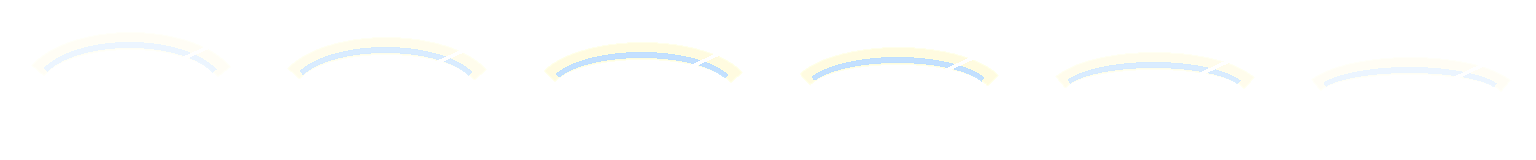
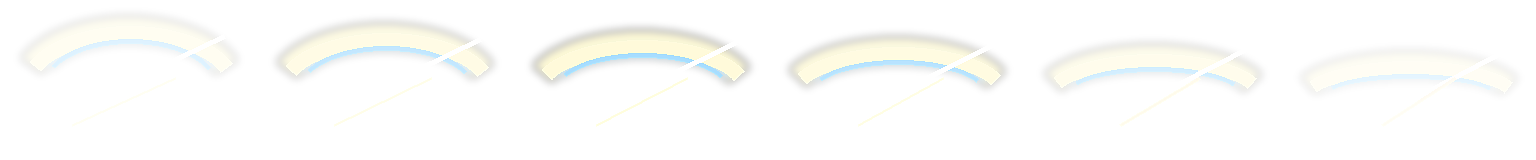
Enhance battle hit effects

diff --git a/reboot/tools/generate_actor_animation_sheets.py b/reboot/tools/generate_actor_animation_sheets.py
@@ -3,7 +3,7 @@ from __future__ import annotations
 import math
 from pathlib import Path
 
-from PIL import Image, ImageDraw, ImageEnhance
+from PIL import Image, ImageDraw, ImageEnhance, ImageFilter
 
 
 ROOT = Path(__file__).resolve().parents[1]
@@ -11,6 +11,7 @@ ART_ROOT = ROOT / "assets" / "generated" / "mvp_art"
 OUT_DIR = ART_ROOT / "actor_anim"
 FRAME_SIZE = (256, 256)
 SLASH_FRAME_SIZE = (256, 160)
+HIT_BURST_FRAME_SIZE = (192, 192)
 
 
 def trim_alpha(image: Image.Image) -> Image.Image:
@@ -126,14 +127,74 @@ def make_slash_sheet() -> Image.Image:
     for index in range(6):
         frame = Image.new("RGBA", SLASH_FRAME_SIZE, (0, 0, 0, 0))
         draw = ImageDraw.Draw(frame)
-        alpha = int(235 * (1.0 - abs(index - 2.5) / 3.2))
-        alpha = max(60, alpha)
-        spread = 14 + index * 5
-        draw.arc((22, 18 + spread, 238, 150 - spread // 2), 204, 338, fill=(255, 250, 216, alpha), width=18)
-        draw.arc((34, 28 + spread, 224, 140 - spread // 2), 206, 336, fill=(114, 184, 255, int(alpha * 0.55)), width=6)
-        draw.line((60 + index * 8, 112, 218, 42 + index * 3), fill=(255, 255, 255, int(alpha * 0.62)), width=4)
-        frame = ImageEnhance.Sharpness(frame).enhance(1.3)
+        alpha = int(255 * (1.0 - abs(index - 2.2) / 3.4))
+        alpha = max(70, alpha)
+        spread = 8 + index * 7
+        glow = Image.new("RGBA", SLASH_FRAME_SIZE, (0, 0, 0, 0))
+        glow_draw = ImageDraw.Draw(glow)
+        glow_draw.arc((12, 8 + spread, 244, 154 - spread // 2), 202, 340, fill=(255, 246, 181, int(alpha * 0.58)), width=28)
+        glow_draw.arc((34, 24 + spread, 226, 142 - spread // 2), 206, 336, fill=(126, 207, 255, int(alpha * 0.40)), width=12)
+        glow = glow.filter(ImageFilter.GaussianBlur(4.2))
+        frame.alpha_composite(glow)
+        draw.arc((20, 18 + spread, 240, 150 - spread // 2), 204, 338, fill=(255, 250, 216, alpha), width=16)
+        draw.arc((42, 31 + spread, 218, 138 - spread // 2), 207, 336, fill=(126, 205, 255, int(alpha * 0.72)), width=5)
+        draw.line((52 + index * 9, 118, 224, 36 + index * 3), fill=(255, 255, 255, int(alpha * 0.92)), width=5)
+        draw.line((72 + index * 6, 125, 175, 78), fill=(255, 232, 166, int(alpha * 0.48)), width=3)
+        frame = ImageEnhance.Sharpness(frame).enhance(1.55)
         sheet.alpha_composite(frame, (index * SLASH_FRAME_SIZE[0], 0))
+    return sheet
+
+
+def make_hit_burst_sheet() -> Image.Image:
+    frame_count = 8
+    width = HIT_BURST_FRAME_SIZE[0] * frame_count
+    sheet = Image.new("RGBA", (width, HIT_BURST_FRAME_SIZE[1]), (0, 0, 0, 0))
+    for index in range(frame_count):
+        frame = Image.new("RGBA", HIT_BURST_FRAME_SIZE, (0, 0, 0, 0))
+        draw = ImageDraw.Draw(frame)
+        progress = index / float(frame_count - 1)
+        center = (92 + round(progress * 12), 88 - round(progress * 5))
+        radius = 18 + round(progress * 58)
+        alpha = max(0, round(255 * (1.0 - progress)))
+
+        glow = Image.new("RGBA", HIT_BURST_FRAME_SIZE, (0, 0, 0, 0))
+        glow_draw = ImageDraw.Draw(glow)
+        glow_draw.ellipse(
+            (center[0] - radius, center[1] - radius, center[0] + radius, center[1] + radius),
+            fill=(255, 216, 118, int(alpha * 0.30)),
+        )
+        glow = glow.filter(ImageFilter.GaussianBlur(7.0))
+        frame.alpha_composite(glow)
+
+        ring_width = max(2, round(8 * (1.0 - progress)))
+        draw.ellipse(
+            (center[0] - radius, center[1] - radius, center[0] + radius, center[1] + radius),
+            outline=(255, 244, 190, int(alpha * 0.85)),
+            width=ring_width,
+        )
+        for ray_index in range(12):
+            angle = (ray_index / 12.0) * math.tau + progress * 0.55
+            inner = 12 + progress * 18
+            outer = radius + 12 + ray_index % 3 * 5
+            start = (center[0] + math.cos(angle) * inner, center[1] + math.sin(angle) * inner)
+            end = (center[0] + math.cos(angle) * outer, center[1] + math.sin(angle) * outer)
+            color = (255, 247, 215, int(alpha * (0.88 if ray_index % 2 == 0 else 0.55)))
+            draw.line((start[0], start[1], end[0], end[1]), fill=color, width=max(1, round(4 * (1.0 - progress))))
+        for spark_index in range(9):
+            angle = (spark_index / 9.0) * math.tau - 0.45 + progress
+            distance = 26 + progress * (46 + spark_index % 4 * 7)
+            point = (center[0] + math.cos(angle) * distance, center[1] + math.sin(angle) * distance)
+            spark_radius = max(1, round(4 * (1.0 - progress)))
+            draw.ellipse(
+                (point[0] - spark_radius, point[1] - spark_radius, point[0] + spark_radius, point[1] + spark_radius),
+                fill=(117, 208, 255, int(alpha * 0.72)),
+            )
+        if index <= 2:
+            draw.polygon(
+                [(center[0] - 16, center[1] + 3), (center[0] + 36, center[1] - 26), (center[0] + 18, center[1] + 15)],
+                fill=(255, 255, 255, int(alpha * 0.85)),
+            )
+        sheet.alpha_composite(frame, (index * HIT_BURST_FRAME_SIZE[0], 0))
     return sheet
 
 
@@ -147,6 +208,7 @@ def main() -> None:
         "enemy_idle_sheet.png": make_enemy_idle_sheet(enemy),
         "enemy_hit_sheet.png": make_enemy_hit_sheet(enemy),
         "slash_effect_sheet.png": make_slash_sheet(),
+        "hit_burst_sheet.png": make_hit_burst_sheet(),
     }
     for name, image in outputs.items():
         path = OUT_DIR / name